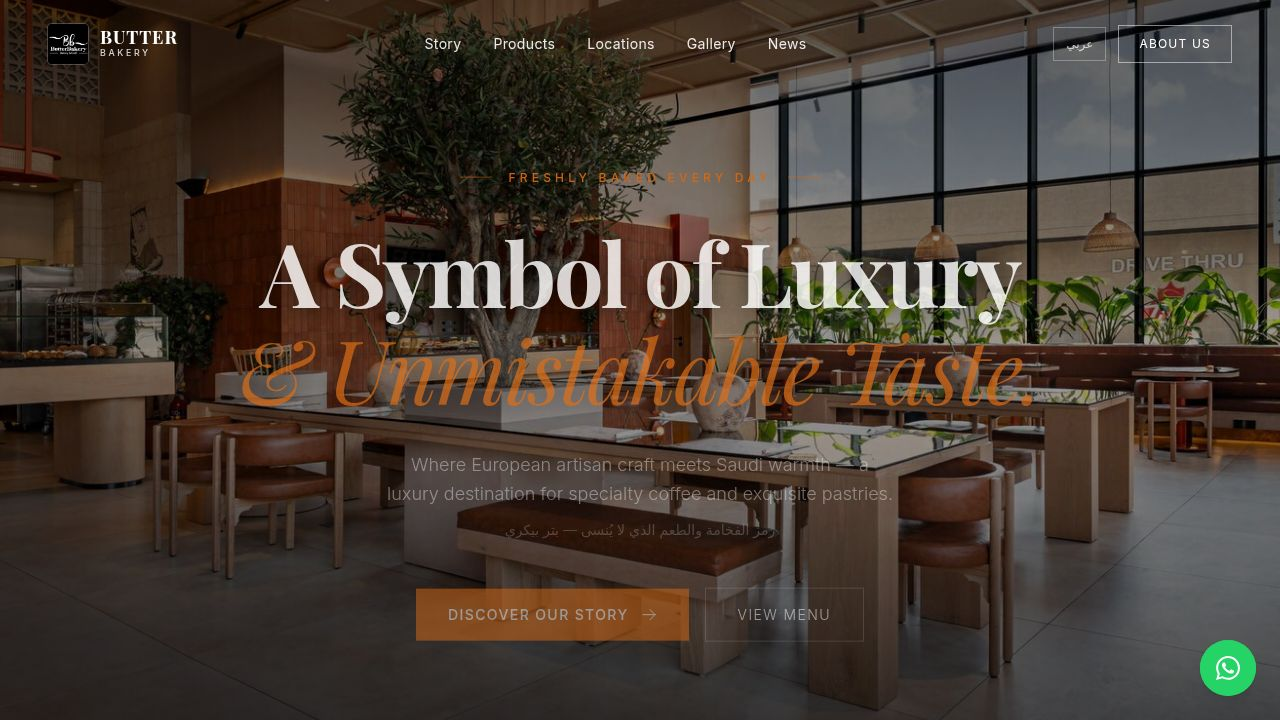
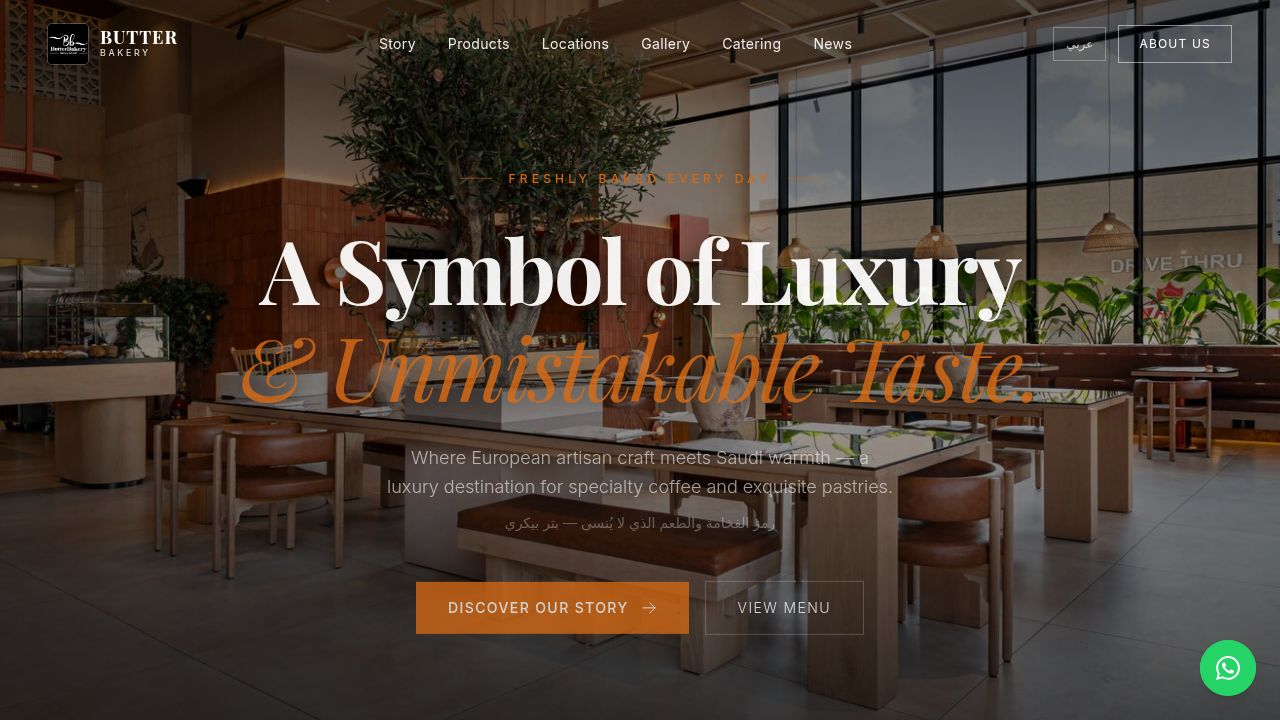
Add new testimonials and expand the catering section with photos
Update testimonials to include more reviews and adjust the grid layout. Add a horizontal photo carousel to the catering section and refactor the title to use translations. Update investment pillar text to include Jizan as an operational branch in both English and Arabic.

Replit-Commit-Author: Agent
Replit-Commit-Session-Id: 806da614-7848-41b5-9dad-db5e99875863
Replit-Commit-Checkpoint-Type: full_checkpoint
Replit-Commit-Event-Id: 3e37d130-a87b-414f-9247-e6618a263ce3
Replit-Commit-Screenshot-Url: https://storage.googleapis.com/screenshot-production-us-central1/c84ec4ec-d319-4a57-bda6-e853532fedf2/806da614-7848-41b5-9dad-db5e99875863/reLzHtC
Replit-Helium-Checkpoint-Created: true

diff --git a/artifacts/butter-bakery/src/components/sections/Catering.tsx b/artifacts/butter-bakery/src/components/sections/Catering.tsx
@@ -1,5 +1,10 @@
 import { FadeIn } from "@/components/ui/fade-in";
 import { useLang } from "@/contexts/LanguageContext";
+import catering1Img from "@/assets/real/catering-1.jpg";
+import catering2Img from "@/assets/real/catering-2.jpg";
+import catering3Img from "@/assets/real/catering-3.jpg";
+import catering4Img from "@/assets/real/catering-4.jpg";
+import catering5Img from "@/assets/real/catering-5.jpg";
 
 const WHATSAPP = "https://wa.me/[phone redacted]";
 
@@ -21,17 +26,8 @@ export function Catering() {
           </p>
           <div className="flex flex-col lg:flex-row lg:items-end lg:justify-between gap-6">
             <h2 className="font-serif text-5xl md:text-7xl lg:text-8xl text-foreground font-medium leading-[1.05] max-w-3xl">
-              {isAr ? (
-                <>
-                  نأتي إلى{" "}
-                  <span className="text-primary italic">مائدتكم</span>
-                </>
-              ) : (
-                <>
-                  We Come to{" "}
-                  <span className="text-primary italic">Your Table</span>
-                </>
-              )}
+              {c.title.replace(c.titleAccent, "").trim()}{" "}
+              <span className="text-primary italic">{c.titleAccent}</span>
             </h2>
             <p className="text-foreground/50 text-sm uppercase tracking-[0.25em] lg:mb-3 font-light lg:max-w-xs lg:text-right">
               {c.tagline}
@@ -99,6 +95,29 @@ export function Catering() {
           </div>
         </div>
 
+      </div>
+
+      {/* ── Catering photo strip ────────────────────────────── */}
+      <div className="container mx-auto px-5 md:px-12 pb-12 md:pb-20">
+        <FadeIn direction="up" delay={0.1}>
+          <div className="grid grid-cols-2 md:grid-cols-5 gap-2 md:gap-3">
+            <div className="aspect-[4/5] md:aspect-[3/4] overflow-hidden">
+              <img src={catering1Img} alt="Catering setup" className="w-full h-full object-cover hover:scale-105 transition-transform duration-700" />
+            </div>
+            <div className="aspect-[4/5] md:aspect-[3/4] overflow-hidden">
+              <img src={catering2Img} alt="Catering pastries" className="w-full h-full object-cover hover:scale-105 transition-transform duration-700" />
+            </div>
+            <div className="aspect-[4/5] md:aspect-[3/4] overflow-hidden">
+              <img src={catering3Img} alt="Catering table" className="w-full h-full object-cover hover:scale-105 transition-transform duration-700" />
+            </div>
+            <div className="aspect-[4/5] md:aspect-[3/4] overflow-hidden">
+              <img src={catering4Img} alt="Catering display" className="w-full h-full object-cover hover:scale-105 transition-transform duration-700" />
+            </div>
+            <div className="col-span-2 md:col-span-1 aspect-[16/5] md:aspect-[3/4] overflow-hidden">
+              <img src={catering5Img} alt="Catering event" className="w-full h-full object-cover object-center hover:scale-105 transition-transform duration-700" />
+            </div>
+          </div>
+        </FadeIn>
       </div>
 
       {/* ── Dark CTA strip ─────────────────────────────────── */}

diff --git a/artifacts/butter-bakery/src/components/sections/Testimonials.tsx b/artifacts/butter-bakery/src/components/sections/Testimonials.tsx
@@ -39,6 +39,18 @@ const reviews = {
       city: "Abha",
       stars: 5,
     },
+    {
+      quote: "The Medina branch is a true gem — watching the golden hour from the rooftop terrace with a perfect flat white in hand is an experience I keep coming back for.",
+      name: "Sara M.",
+      city: "Al Madinah",
+      stars: 5,
+    },
+    {
+      quote: "Jizan finally has a café worthy of its beautiful corniche. Sitting by the Red Sea with Butter Bakery's croissants — this is what coastal living should feel like.",
+      name: "Faisal A.",
+      city: "Jizan",
+      stars: 5,
+    },
   ],
   ar: [
     {
@@ -63,6 +75,18 @@ const reviews = {
       quote: "تجربة الفرع الموسمي الخارجي فريدة من نوعها — أجواء ساحرة والأكل يضاهي كل شيء بالتفصيل.",
       name: "عبدالله ف.",
       city: "أبها",
+      stars: 5,
+    },
+    {
+      quote: "فرع المدينة درة حقيقية — مشاهدة غروب الشمس الذهبي من السطح المفتوح وكوب فلات وايت بيدك، تجربة لا تُنسى تعود إليها مراراً.",
+      name: "سارة م.",
+      city: "المدينة المنورة",
+      stars: 5,
+    },
+    {
+      quote: "جازان كانت تنتظر مقهى يليق بكورنيشها الجميل. الجلوس على البحر الأحمر مع كروسان بتر بيكري — هذا ما يعنيه العيش على الساحل.",
+      name: "فيصل أ.",
+      city: "جازان",
       stars: 5,
     },
   ],
@@ -90,7 +114,7 @@ export function Testimonials() {
           </p>
         </FadeIn>
 
-        <div className="grid grid-cols-1 md:grid-cols-2 gap-4 md:gap-6">
+        <div className="grid grid-cols-1 md:grid-cols-2 lg:grid-cols-3 gap-4 md:gap-6">
           {list.map((r, i) => (
             <FadeIn key={i} delay={i * 0.1} direction="up">
               <div className="group p-6 md:p-8 border border-border/60 bg-secondary/30 hover:border-primary/40 hover:bg-secondary/60 transition-all duration-500 h-full flex flex-col">

diff --git a/artifacts/butter-bakery/src/translations/index.ts b/artifacts/butter-bakery/src/translations/index.ts
@@ -180,7 +180,7 @@ export const translations = {
       pillars: [
         {
           title: "Proven Multi-City Concept",
-          body: "Operational branches in Abha (Al Hizam — award-winning tourism project), Abha (Airport Road — newest opening), Riyadh (Anas Bin Malik), Tabuk, Al Madinah Al Munawwarah, and Riyadh (Al Safarat — Ministry of Tourism partner) — plus seasonal mobile branches at Namas, Taif, Aseer Summer Season, and national events.",
+          body: "Operational branches in Abha (Al Hizam — award-winning tourism project), Abha (Airport Road — newest opening), Riyadh (Anas Bin Malik), Tabuk, Al Madinah Al Munawwarah, Riyadh (Al Safarat — Ministry of Tourism partner), and Jizan (Corniche — Red Sea waterfront) — plus seasonal mobile branches at Namas, Taif, Aseer Summer Season, and national events.",
         },
         {
           title: "B2C + B2B + B2G Revenue",
@@ -495,7 +495,7 @@ export const translations = {
       pillars: [
         {
           title: "مفهوم متعدد المدن مُثبت",
-          body: "فروع تشغيلية في أبها (الحزام — مشروع سياحي حائز على جوائز)، أبها (طريق المطار — أحدث الافتتاحات)، الرياض (أنس بن مالك)، تبوك، المدينة المنورة، والرياض (حي السفارات — شراكة مع وزارة السياحة) — بالإضافة إلى فروع موسمية متنقلة في النماص والطائف وموسم صيف عسير والمناسبات الوطنية.",
+          body: "فروع تشغيلية في أبها (الحزام — مشروع سياحي حائز على جوائز)، أبها (طريق المطار — أحدث الافتتاحات)، الرياض (أنس بن مالك)، تبوك، المدينة المنورة، الرياض (حي السفارات — شراكة مع وزارة السياحة)، وجازان (الكورنيش — واجهة البحر الأحمر) — بالإضافة إلى فروع موسمية متنقلة في النماص والطائف وموسم صيف عسير والمناسبات الوطنية.",
         },
         {
           title: "إيرادات B2C + B2B + B2G",